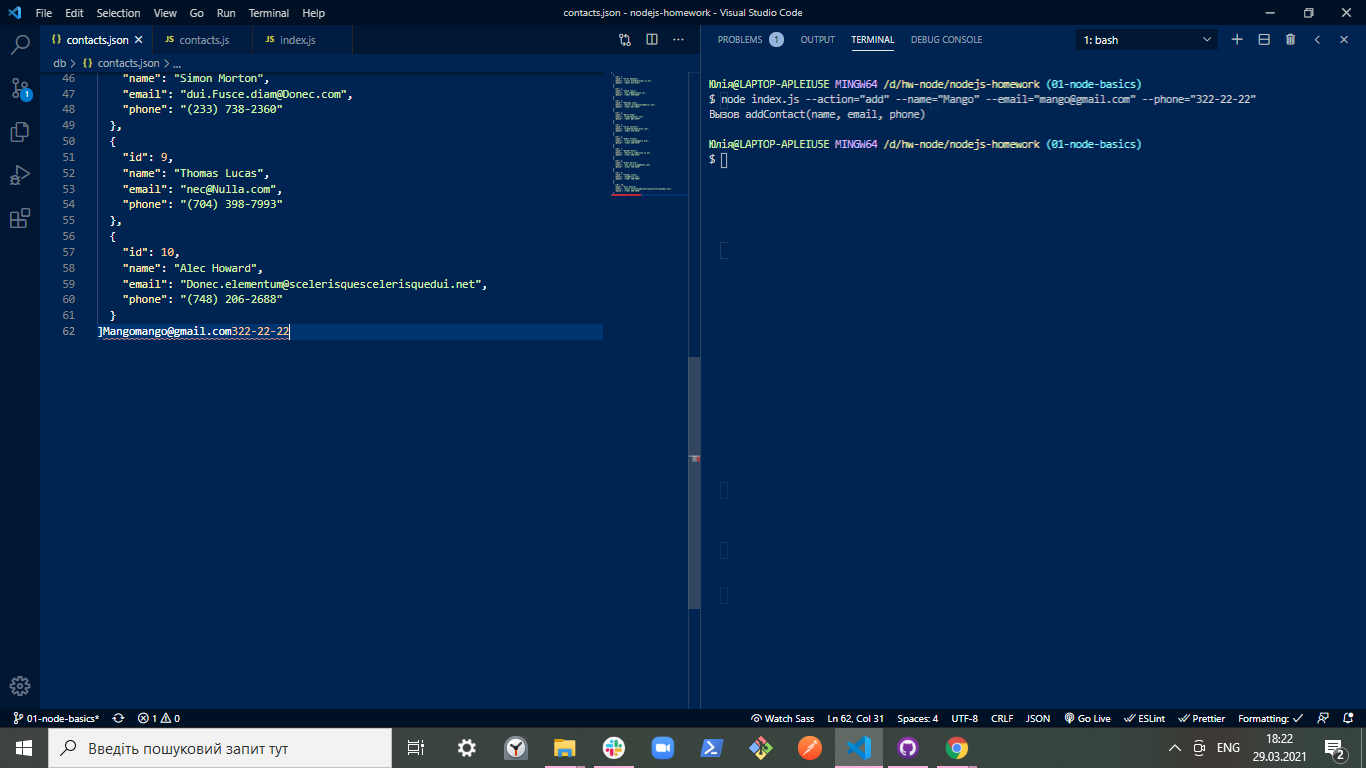
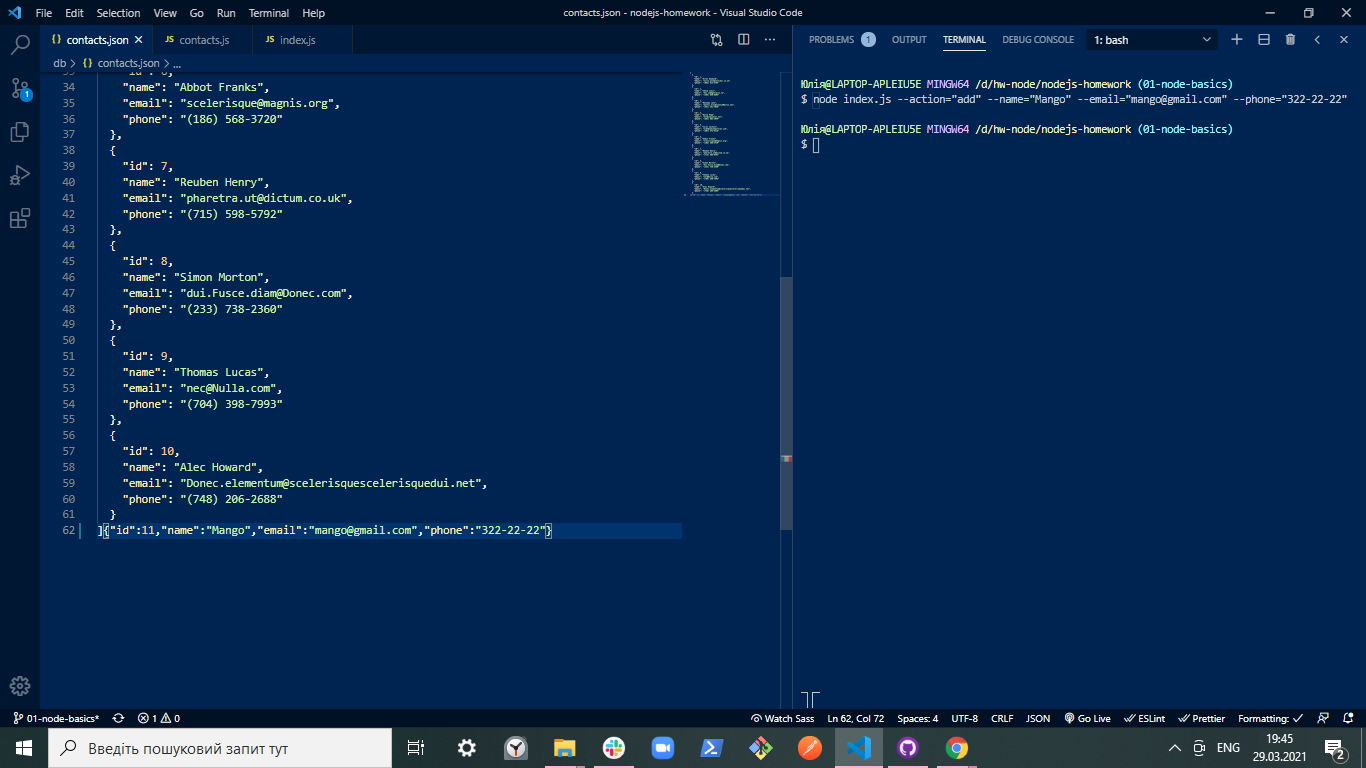
summary

diff --git a/contacts.js b/contacts.js
@@ -34,15 +34,20 @@ function removeContact(contactId) {
 }
 
 function addContact(name, email, phone) {
-  fs.writeFile(contactsPath, name, { flag: 'a+' }).catch(err =>
-    console.error(err),
-  );
-  fs.writeFile(contactsPath, email, { flag: 'a+' }).catch(err =>
-    console.error(err),
-  );
-  fs.writeFile(contactsPath, phone, { flag: 'a+' }).catch(err =>
-    console.error(err),
-  );
+  fs.readFile(contactsPath)
+    .then(data => {
+      JSON.parse(data);
+      let contact = {
+        id: Object.keys(JSON.parse(data)).length + 1,
+        name: name,
+        email: email,
+        phone: phone,
+      };
+      fs.writeFile(contactsPath, JSON.stringify(contact), {
+        flag: 'a+',
+      }).catch(err => console.error(err));
+    })
+    .catch(err => console.error(err.message));
 }
 
 module.exports = {
